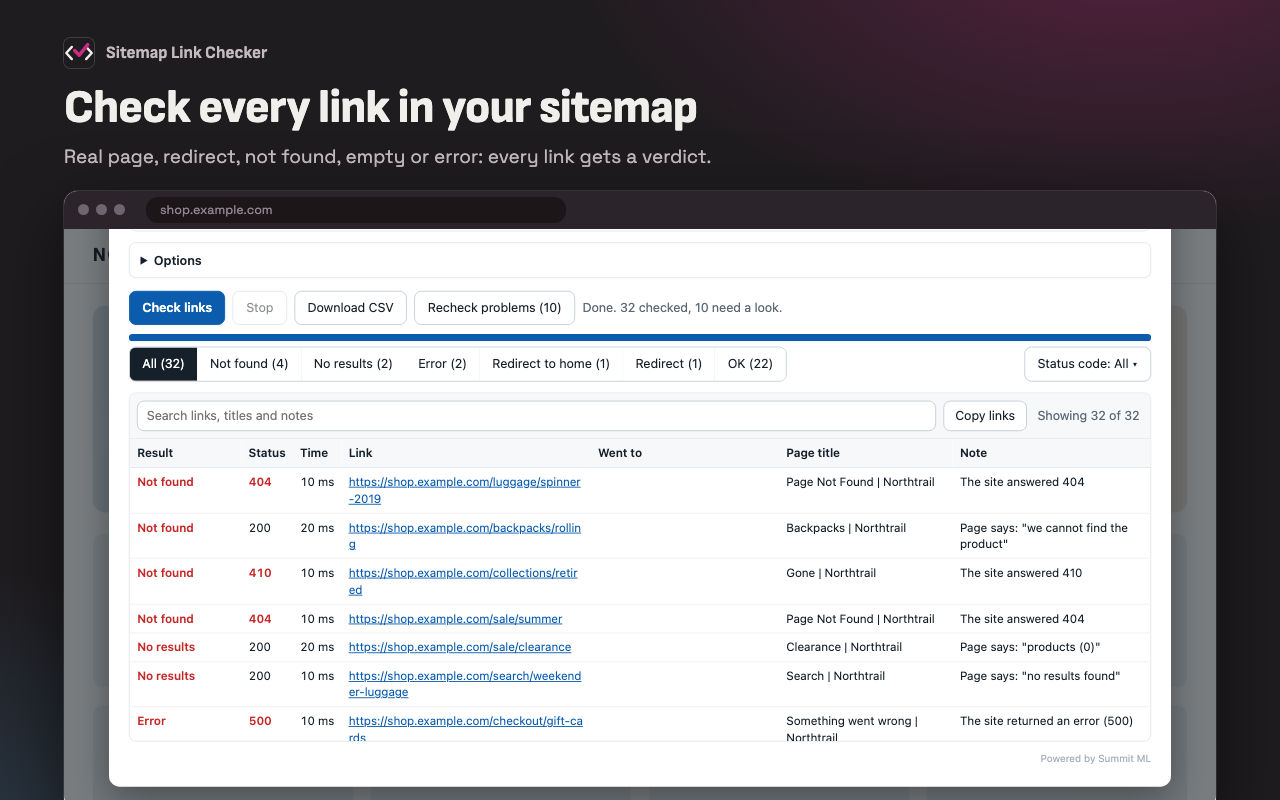
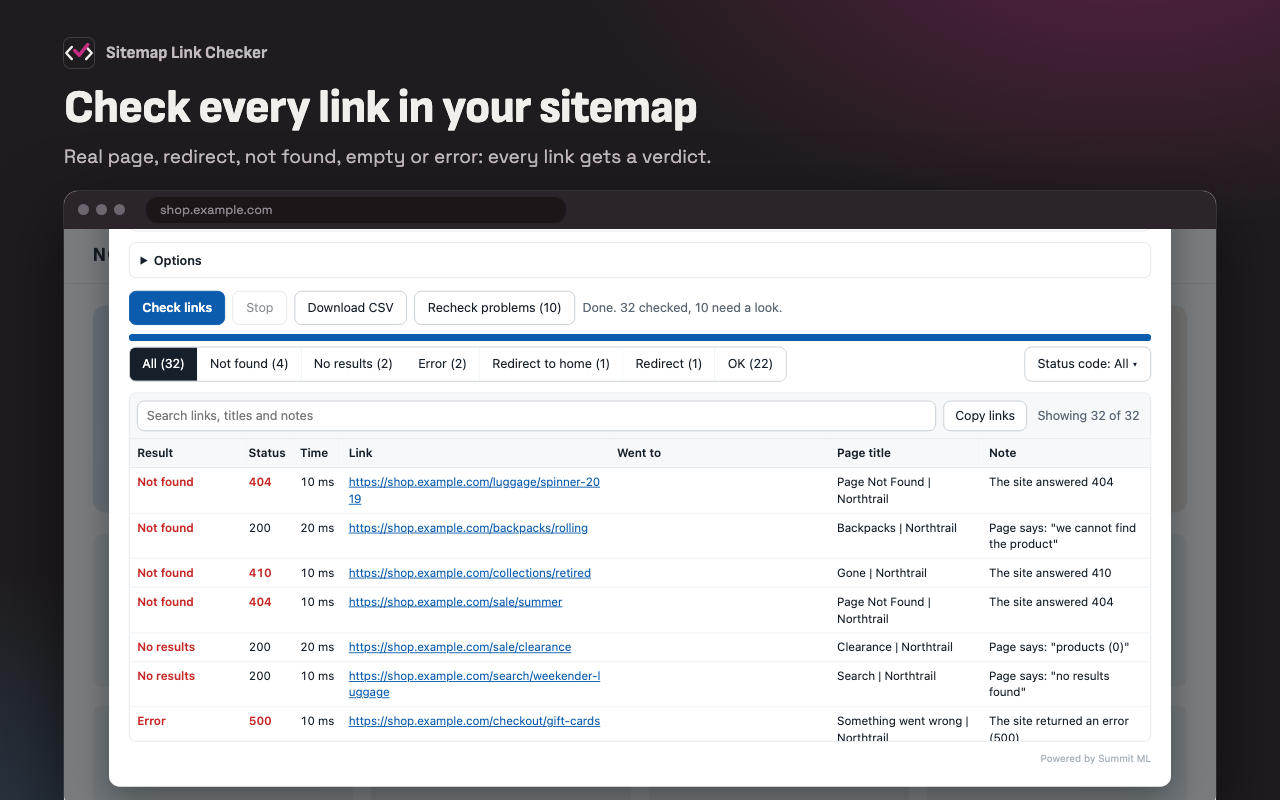
Treat a slow server as one finding, add a Fast pace and time left
- Slowness no longer changes a link's result; the Time column
  highlights only pages much slower than the rest of the run
- A note above the results says when the site as a whole is slow
- Fast pace (6 at a time), and a time-left estimate in the status line
- Link column keeps a minimum width

Store images re-rendered.

diff --git a/bookmarklet/index.html b/bookmarklet/index.html
@@ -98,7 +98,7 @@
   var PAUSE_AFTER = 3;
   // a page with less visible text than this is reported as nearly empty
   var THIN_TEXT = 150;
-  // a page that takes longer than this to arrive is reported as slow
+  // a page is marked slow when it takes at least this long and at least twice as long as the run's typical page
   var SLOW_MS = 3000;
   // wording in a page title or main heading that marks a not-found or error page on any kind of site
   var NOT_FOUND_TITLE = /\b404\b|not found|can(?:no|')t be found|could(?:n't| not) be found|does(?:n't| not) exist|no longer (?:available|exists)|page (?:is )?missing/;
@@ -240,7 +240,6 @@
    * @param {string} [info.canonical] - the canonical address the page names
    * @param {string} [info.robots] - robots instructions from the meta tags and the response header, lower case
    * @param {boolean} [info.isHtml] - false when the response is not a web page (a PDF, a download)
-   * @param {number} [info.ms] - how long the page took to arrive, in milliseconds
    * @param {?Object} [info.notFoundPage] - what the site's not-found page looks like, see sameAsNotFound
    * @returns {{result: string, note: string}} the outcome
    */
@@ -283,7 +282,6 @@
     }
     if (info.title !== undefined && !info.title && !info.heading) { warnings.push('No title and no main heading'); }
     if (text.trim().length < THIN_TEXT) { warnings.push('Almost no text on the page. If scripts draw the page, the checker cannot see it'); }
-    if (info.ms >= SLOW_MS) { warnings.push('Slow: took ' + duration(info.ms)); }
     if (warnings.length) { return { result: 'Warning', note: warnings.join('. ') + '.' }; }
     return { result: 'OK', note: '' };
   }
@@ -319,7 +317,6 @@
         canonical: row.canonical,
         robots: (isHtml ? robotsOf(html) : '') + ',' + (res.headers.get('x-robots-tag') || '').toLowerCase(),
         isHtml: isHtml,
-        ms: row.ms,
         notFoundPage: notFoundPage,
         phrases: phrases
       });
@@ -435,6 +432,37 @@
   function duration(ms) { return ms < 1000 ? Math.round(ms) + ' ms' : (ms / 1000).toFixed(1) + ' s'; }
 
   /**
+   * How long a page must take before it stands out as slow in this run.
+   * Judged against the run's own typical page, so a slow server does not mark every row.
+   * @param {number[]} times - response times of the run so far, in milliseconds
+   * @returns {number} the limit in milliseconds
+   */
+  function slowLimit(times) {
+    var sorted = (times || []).filter(function (t) { return typeof t === 'number'; }).sort(function (a, b) { return a - b; });
+    var median = sorted.length ? sorted[Math.floor(sorted.length / 2)] : 0;
+    return Math.max(SLOW_MS, median * 2);
+  }
+
+  /**
+   * Whether the site as a whole is answering slowly, as opposed to a few slow pages.
+   * @param {number[]} times - response times of the run so far, in milliseconds
+   * @returns {number} the typical (median) time in milliseconds when most pages are slow, otherwise 0
+   */
+  function slowSite(times) {
+    var sorted = (times || []).filter(function (t) { return typeof t === 'number'; }).sort(function (a, b) { return a - b; });
+    if (sorted.length < 10) { return 0; }
+    var slow = sorted.filter(function (t) { return t >= SLOW_MS; }).length;
+    return slow * 2 > sorted.length ? sorted[Math.floor(sorted.length / 2)] : 0;
+  }
+
+  /**
+   * The time a run still needs, for the progress message.
+   * @param {number} ms - milliseconds remaining
+   * @returns {string} for example "under a minute left" or "about 8 min left"
+   */
+  function timeLeft(ms) { return ms < 60000 ? 'under a minute left' : 'about ' + Math.round(ms / 60000) + ' min left'; }
+
+  /**
    * The sitemap addresses a robots.txt file declares.
    * @param {string} text - the contents of robots.txt
    * @returns {string[]} the addresses on its "Sitemap:" lines, in order
@@ -459,7 +487,7 @@
 
   // Node (tests): expose the pure helpers and stop before any DOM work.
   if (typeof module !== 'undefined' && module.exports) {
-    module.exports = { classify: classify, sitemapAddress: sitemapAddress, robotsSitemaps: robotsSitemaps, swapOrigin: swapOrigin, otherSites: otherSites, duration: duration, pickSitemap: pickSitemap, norm: norm, isHome: isHome, visibleText: visibleText, csvCell: csvCell, isLogin: isLogin, canonicalOf: canonicalOf, robotsOf: robotsOf, sameAsNotFound: sameAsNotFound, needsHuman: needsHuman, codeOf: codeOf, sortCodes: sortCodes, codePreview: codePreview, matches: matches, DEFAULT_PHRASES: DEFAULT_PHRASES };
+    module.exports = { classify: classify, sitemapAddress: sitemapAddress, robotsSitemaps: robotsSitemaps, swapOrigin: swapOrigin, otherSites: otherSites, duration: duration, slowLimit: slowLimit, slowSite: slowSite, timeLeft: timeLeft, pickSitemap: pickSitemap, norm: norm, isHome: isHome, visibleText: visibleText, csvCell: csvCell, isLogin: isLogin, canonicalOf: canonicalOf, robotsOf: robotsOf, sameAsNotFound: sameAsNotFound, needsHuman: needsHuman, codeOf: codeOf, sortCodes: sortCodes, codePreview: codePreview, matches: matches, DEFAULT_PHRASES: DEFAULT_PHRASES };
     return;
   }
 
@@ -479,6 +507,7 @@
     'label{display:block;font-weight:600;margin:12px 0 4px}',
     '.swap{display:flex;gap:8px;align-items:flex-start;font-weight:400;margin:8px 0 0;padding:9px 12px;border:1px solid #e8c88a;background:#fff8e8;border-radius:8px}',
     'td.slow{color:#b26a00;font-weight:600}',
+    '.info{margin:12px 0 14px;padding:10px 14px;border:1px solid #c9d6e6;background:#f2f6fb;border-radius:8px}',
     '.between{justify-content:space-between;margin-bottom:8px}.sec{font-weight:600}',
     '.help{margin:6px 0 0;color:#5b6875;font-size:13px}.help strong{color:#16202a}',
     '#panePaste textarea{min-height:104px}',
@@ -528,7 +557,7 @@
     'table{border-collapse:collapse;width:100%;font-size:13px}',
     'th,td{text-align:left;padding:6px 8px;border-bottom:1px solid #eef1f4;vertical-align:top}',
     'th{position:sticky;top:0;background:#f6f8fa;font-weight:600;border-bottom-color:#e1e5ea}',
-    'td.u{max-width:420px;word-break:break-all}',
+    'td.u{min-width:230px;max-width:420px;word-break:break-all}th{white-space:nowrap}',
     'a{color:#0b5cad}',
     '.OK{color:#1a7f37;font-weight:600}.Blocked,.Sign-in-needed,.Warning,.Redirect,.Redirect-to-home,.Skipped{color:#b26a00;font-weight:600}.Not-found,.No-results,.Error{color:#c62828;font-weight:600}',
     'details{margin-top:10px}summary{cursor:pointer;font-weight:600}',
@@ -543,8 +572,8 @@
     '<div id="panePaste" hidden><textarea id="paste" aria-label="Links to check, one per line" placeholder="https://…"></textarea><p class="help">One link per line. Only links on this site can be checked.</p></div>',
     '<label class="swap" id="swapRow" hidden><input type="checkbox" id="swap"><span id="swapText"></span></label>',
     '<details class="opts"><summary>Options</summary><div class="optbody">',
-    '<div><label for="pace">Pace</label><select id="pace"><option value="normal">Normal (3 at a time)</option><option value="gentle">Gentle (1 at a time)</option></select>',
-    '<p class="help">Gentle is slower but less likely to set off a bot check.</p>',
+    '<div><label for="pace">Pace</label><select id="pace"><option value="normal">Normal (3 at a time)</option><option value="gentle">Gentle (1 at a time)</option><option value="fast">Fast (6 at a time)</option></select>',
+    '<p class="help">Gentle is slower but less likely to set off a bot check. Fast suits a site that is slow to answer and has no bot check.</p>',
     '<p class="help"><strong>Sign-ins and bot checks.</strong> The checker uses this browser\'s session, so it sees what you see. Sign in, enter the site password, or complete the "press and hold" check in this browser first. It never asks for a password and never stores one. If the site starts blocking part-way through, the run pauses and shows how to carry on.</p></div>',
     '<div><label for="phrases">Messages that mark a broken page</label><textarea id="phrases"></textarea>',
     '<p class="help">One per line. A page whose text contains one of these is reported as Not found, as No results if the phrase contains "no results" or "(0)", or as Error if it contains the word "error".</p></div>',
@@ -552,6 +581,7 @@
     '<div class="row" style="margin-top:14px"><button class="primary" id="start">Check links</button><button id="stop" disabled>Stop</button><button id="csv" disabled>Download CSV</button><button id="again" disabled>Recheck problems</button><span class="muted" id="status" aria-live="polite"></span></div>',
     '<div class="bar"><i id="prog"></i></div>',
     '<div class="gate" id="gate" role="status" hidden></div>',
+    '<div class="info" id="slowNote" role="status" hidden></div>',
     '<div class="row" id="filters"></div>',
     '<div class="results">',
     '<div class="row" id="find" hidden><input class="grow" id="q" type="text" placeholder="Search links, titles and notes" aria-label="Search results"><button id="copy">Copy links</button><span class="muted" id="shown" aria-live="polite"></span></div>',
@@ -652,6 +682,16 @@
       empty.appendChild(cell); body.appendChild(empty);
       return;
     }
+    var times = rows.map(function (r) { return r.ms; }), slow = slowLimit(times), typical = slowSite(times);
+    // a slow server is one finding about the site, not hundreds of findings about its pages
+    $('slowNote').hidden = !typical;
+    if (typical) {
+      $('slowNote').innerHTML = '';
+      var lead = document.createElement('strong'); lead.textContent = 'This site is answering slowly. ';
+      $('slowNote').appendChild(lead);
+      $('slowNote').appendChild(document.createTextNode('Most pages took 3 seconds or more, and the typical page took ' + duration(typical) +
+        '. That points to the server or this environment, not to individual pages, and it does not change any result. Only pages much slower than the rest are highlighted in the Time column.'));
+    }
     list.forEach(function (r) {
       var tr = document.createElement('tr');
       function td(text, klass, link) {
@@ -661,7 +701,7 @@
       }
       td(r.result, 'r ' + cls(r.result));
       td(r.status || '', 's' + (isBad(r.status) ? ' bad' : ''));
-      td(r.ms === '' ? '' : duration(r.ms), 's' + (r.ms >= SLOW_MS ? ' slow' : ''));
+      td(r.ms === '' ? '' : duration(r.ms), 's' + (r.ms >= slow ? ' slow' : ''));
       td(r.url, 'u', r.url);
       var moved = r.finalUrl && norm(r.finalUrl) !== norm(r.url) ? r.finalUrl : '';
       td(moved, 'u', moved);
@@ -805,7 +845,8 @@
     running = true; stopRequested = false; paused = false;
     $('start').disabled = true; $('stop').disabled = false; $('csv').disabled = true; $('pace').disabled = true; $('again').disabled = true;
     renderGate();
-    var gentle = $('pace').value === 'gentle', streak = 0, inflight = 0;
+    var gentle = $('pace').value === 'gentle', streak = 0, inflight = 0, began = Date.now(), done = 0;
+    var atOnce = gentle ? 1 : ($('pace').value === 'fast' ? CONCURRENCY * 2 : CONCURRENCY);
     async function worker() {
       while (pending.length && !stopRequested && !paused) {
         var url = pending.shift(); inflight++;
@@ -816,12 +857,14 @@
         if (streak >= PAUSE_AFTER) { paused = true; }
         var total = rows.length + pending.length + inflight;
         $('prog').style.width = Math.round(rows.length / total * 100) + '%';
-        setStatus('Checked ' + rows.length + ' of ' + total);
+        done++;
+        var left = pending.length + inflight;
+        setStatus('Checked ' + rows.length + ' of ' + total + (done >= 6 && left ? ', ' + timeLeft((Date.now() - began) / done * left) : ''));
         if (rows.length % 5 === 0 || !pending.length) { renderFilters(); renderRows(); }
         if (gentle && pending.length && !stopRequested && !paused) { await sleep(GENTLE_DELAY); }
       }
     }
-    var workers = []; for (var i = 0; i < (gentle ? 1 : CONCURRENCY); i++) { workers.push(worker()); }
+    var workers = []; for (var i = 0; i < atOnce; i++) { workers.push(worker()); }
     await Promise.all(workers);
     var weight = { 'Blocked': -2, 'Sign-in needed': -1, 'Not found': 0, 'No results': 1, 'Error': 2, 'Warning': 2.5, 'Redirect to home': 3, 'Redirect': 4, 'Skipped': 5, 'OK': 6 };
     rows.sort(function (a, b) { return weight[a.result] - weight[b.result]; });

diff --git a/extension/checker.js b/extension/checker.js
@@ -26,7 +26,7 @@
   var PAUSE_AFTER = 3;
   // a page with less visible text than this is reported as nearly empty
   var THIN_TEXT = 150;
-  // a page that takes longer than this to arrive is reported as slow
+  // a page is marked slow when it takes at least this long and at least twice as long as the run's typical page
   var SLOW_MS = 3000;
   // wording in a page title or main heading that marks a not-found or error page on any kind of site
   var NOT_FOUND_TITLE = /\b404\b|not found|can(?:no|')t be found|could(?:n't| not) be found|does(?:n't| not) exist|no longer (?:available|exists)|page (?:is )?missing/;
@@ -168,7 +168,6 @@
    * @param {string} [info.canonical] - the canonical address the page names
    * @param {string} [info.robots] - robots instructions from the meta tags and the response header, lower case
    * @param {boolean} [info.isHtml] - false when the response is not a web page (a PDF, a download)
-   * @param {number} [info.ms] - how long the page took to arrive, in milliseconds
    * @param {?Object} [info.notFoundPage] - what the site's not-found page looks like, see sameAsNotFound
    * @returns {{result: string, note: string}} the outcome
    */
@@ -211,7 +210,6 @@
     }
     if (info.title !== undefined && !info.title && !info.heading) { warnings.push('No title and no main heading'); }
     if (text.trim().length < THIN_TEXT) { warnings.push('Almost no text on the page. If scripts draw the page, the checker cannot see it'); }
-    if (info.ms >= SLOW_MS) { warnings.push('Slow: took ' + duration(info.ms)); }
     if (warnings.length) { return { result: 'Warning', note: warnings.join('. ') + '.' }; }
     return { result: 'OK', note: '' };
   }
@@ -247,7 +245,6 @@
         canonical: row.canonical,
         robots: (isHtml ? robotsOf(html) : '') + ',' + (res.headers.get('x-robots-tag') || '').toLowerCase(),
         isHtml: isHtml,
-        ms: row.ms,
         notFoundPage: notFoundPage,
         phrases: phrases
       });
@@ -363,6 +360,37 @@
   function duration(ms) { return ms < 1000 ? Math.round(ms) + ' ms' : (ms / 1000).toFixed(1) + ' s'; }
 
   /**
+   * How long a page must take before it stands out as slow in this run.
+   * Judged against the run's own typical page, so a slow server does not mark every row.
+   * @param {number[]} times - response times of the run so far, in milliseconds
+   * @returns {number} the limit in milliseconds
+   */
+  function slowLimit(times) {
+    var sorted = (times || []).filter(function (t) { return typeof t === 'number'; }).sort(function (a, b) { return a - b; });
+    var median = sorted.length ? sorted[Math.floor(sorted.length / 2)] : 0;
+    return Math.max(SLOW_MS, median * 2);
+  }
+
+  /**
+   * Whether the site as a whole is answering slowly, as opposed to a few slow pages.
+   * @param {number[]} times - response times of the run so far, in milliseconds
+   * @returns {number} the typical (median) time in milliseconds when most pages are slow, otherwise 0
+   */
+  function slowSite(times) {
+    var sorted = (times || []).filter(function (t) { return typeof t === 'number'; }).sort(function (a, b) { return a - b; });
+    if (sorted.length < 10) { return 0; }
+    var slow = sorted.filter(function (t) { return t >= SLOW_MS; }).length;
+    return slow * 2 > sorted.length ? sorted[Math.floor(sorted.length / 2)] : 0;
+  }
+
+  /**
+   * The time a run still needs, for the progress message.
+   * @param {number} ms - milliseconds remaining
+   * @returns {string} for example "under a minute left" or "about 8 min left"
+   */
+  function timeLeft(ms) { return ms < 60000 ? 'under a minute left' : 'about ' + Math.round(ms / 60000) + ' min left'; }
+
+  /**
    * The sitemap addresses a robots.txt file declares.
    * @param {string} text - the contents of robots.txt
    * @returns {string[]} the addresses on its "Sitemap:" lines, in order
@@ -387,7 +415,7 @@
 
   // Node (tests): expose the pure helpers and stop before any DOM work.
   if (typeof module !== 'undefined' && module.exports) {
-    module.exports = { classify: classify, sitemapAddress: sitemapAddress, robotsSitemaps: robotsSitemaps, swapOrigin: swapOrigin, otherSites: otherSites, duration: duration, pickSitemap: pickSitemap, norm: norm, isHome: isHome, visibleText: visibleText, csvCell: csvCell, isLogin: isLogin, canonicalOf: canonicalOf, robotsOf: robotsOf, sameAsNotFound: sameAsNotFound, needsHuman: needsHuman, codeOf: codeOf, sortCodes: sortCodes, codePreview: codePreview, matches: matches, DEFAULT_PHRASES: DEFAULT_PHRASES };
+    module.exports = { classify: classify, sitemapAddress: sitemapAddress, robotsSitemaps: robotsSitemaps, swapOrigin: swapOrigin, otherSites: otherSites, duration: duration, slowLimit: slowLimit, slowSite: slowSite, timeLeft: timeLeft, pickSitemap: pickSitemap, norm: norm, isHome: isHome, visibleText: visibleText, csvCell: csvCell, isLogin: isLogin, canonicalOf: canonicalOf, robotsOf: robotsOf, sameAsNotFound: sameAsNotFound, needsHuman: needsHuman, codeOf: codeOf, sortCodes: sortCodes, codePreview: codePreview, matches: matches, DEFAULT_PHRASES: DEFAULT_PHRASES };
     return;
   }
 
@@ -407,6 +435,7 @@
     'label{display:block;font-weight:600;margin:12px 0 4px}',
     '.swap{display:flex;gap:8px;align-items:flex-start;font-weight:400;margin:8px 0 0;padding:9px 12px;border:1px solid #e8c88a;background:#fff8e8;border-radius:8px}',
     'td.slow{color:#b26a00;font-weight:600}',
+    '.info{margin:12px 0 14px;padding:10px 14px;border:1px solid #c9d6e6;background:#f2f6fb;border-radius:8px}',
     '.between{justify-content:space-between;margin-bottom:8px}.sec{font-weight:600}',
     '.help{margin:6px 0 0;color:#5b6875;font-size:13px}.help strong{color:#16202a}',
     '#panePaste textarea{min-height:104px}',
@@ -456,7 +485,7 @@
     'table{border-collapse:collapse;width:100%;font-size:13px}',
     'th,td{text-align:left;padding:6px 8px;border-bottom:1px solid #eef1f4;vertical-align:top}',
     'th{position:sticky;top:0;background:#f6f8fa;font-weight:600;border-bottom-color:#e1e5ea}',
-    'td.u{max-width:420px;word-break:break-all}',
+    'td.u{min-width:230px;max-width:420px;word-break:break-all}th{white-space:nowrap}',
     'a{color:#0b5cad}',
     '.OK{color:#1a7f37;font-weight:600}.Blocked,.Sign-in-needed,.Warning,.Redirect,.Redirect-to-home,.Skipped{color:#b26a00;font-weight:600}.Not-found,.No-results,.Error{color:#c62828;font-weight:600}',
     'details{margin-top:10px}summary{cursor:pointer;font-weight:600}',
@@ -471,8 +500,8 @@
     '<div id="panePaste" hidden><textarea id="paste" aria-label="Links to check, one per line" placeholder="https://…"></textarea><p class="help">One link per line. Only links on this site can be checked.</p></div>',
     '<label class="swap" id="swapRow" hidden><input type="checkbox" id="swap"><span id="swapText"></span></label>',
     '<details class="opts"><summary>Options</summary><div class="optbody">',
-    '<div><label for="pace">Pace</label><select id="pace"><option value="normal">Normal (3 at a time)</option><option value="gentle">Gentle (1 at a time)</option></select>',
-    '<p class="help">Gentle is slower but less likely to set off a bot check.</p>',
+    '<div><label for="pace">Pace</label><select id="pace"><option value="normal">Normal (3 at a time)</option><option value="gentle">Gentle (1 at a time)</option><option value="fast">Fast (6 at a time)</option></select>',
+    '<p class="help">Gentle is slower but less likely to set off a bot check. Fast suits a site that is slow to answer and has no bot check.</p>',
     '<p class="help"><strong>Sign-ins and bot checks.</strong> The checker uses this browser\'s session, so it sees what you see. Sign in, enter the site password, or complete the "press and hold" check in this browser first. It never asks for a password and never stores one. If the site starts blocking part-way through, the run pauses and shows how to carry on.</p></div>',
     '<div><label for="phrases">Messages that mark a broken page</label><textarea id="phrases"></textarea>',
     '<p class="help">One per line. A page whose text contains one of these is reported as Not found, as No results if the phrase contains "no results" or "(0)", or as Error if it contains the word "error".</p></div>',
@@ -480,6 +509,7 @@
     '<div class="row" style="margin-top:14px"><button class="primary" id="start">Check links</button><button id="stop" disabled>Stop</button><button id="csv" disabled>Download CSV</button><button id="again" disabled>Recheck problems</button><span class="muted" id="status" aria-live="polite"></span></div>',
     '<div class="bar"><i id="prog"></i></div>',
     '<div class="gate" id="gate" role="status" hidden></div>',
+    '<div class="info" id="slowNote" role="status" hidden></div>',
     '<div class="row" id="filters"></div>',
     '<div class="results">',
     '<div class="row" id="find" hidden><input class="grow" id="q" type="text" placeholder="Search links, titles and notes" aria-label="Search results"><button id="copy">Copy links</button><span class="muted" id="shown" aria-live="polite"></span></div>',
@@ -580,6 +610,16 @@
       empty.appendChild(cell); body.appendChild(empty);
       return;
     }
+    var times = rows.map(function (r) { return r.ms; }), slow = slowLimit(times), typical = slowSite(times);
+    // a slow server is one finding about the site, not hundreds of findings about its pages
+    $('slowNote').hidden = !typical;
+    if (typical) {
+      $('slowNote').innerHTML = '';
+      var lead = document.createElement('strong'); lead.textContent = 'This site is answering slowly. ';
+      $('slowNote').appendChild(lead);
+      $('slowNote').appendChild(document.createTextNode('Most pages took 3 seconds or more, and the typical page took ' + duration(typical) +
+        '. That points to the server or this environment, not to individual pages, and it does not change any result. Only pages much slower than the rest are highlighted in the Time column.'));
+    }
     list.forEach(function (r) {
       var tr = document.createElement('tr');
       function td(text, klass, link) {
@@ -589,7 +629,7 @@
       }
       td(r.result, 'r ' + cls(r.result));
       td(r.status || '', 's' + (isBad(r.status) ? ' bad' : ''));
-      td(r.ms === '' ? '' : duration(r.ms), 's' + (r.ms >= SLOW_MS ? ' slow' : ''));
+      td(r.ms === '' ? '' : duration(r.ms), 's' + (r.ms >= slow ? ' slow' : ''));
       td(r.url, 'u', r.url);
       var moved = r.finalUrl && norm(r.finalUrl) !== norm(r.url) ? r.finalUrl : '';
       td(moved, 'u', moved);
@@ -733,7 +773,8 @@
     running = true; stopRequested = false; paused = false;
     $('start').disabled = true; $('stop').disabled = false; $('csv').disabled = true; $('pace').disabled = true; $('again').disabled = true;
     renderGate();
-    var gentle = $('pace').value === 'gentle', streak = 0, inflight = 0;
+    var gentle = $('pace').value === 'gentle', streak = 0, inflight = 0, began = Date.now(), done = 0;
+    var atOnce = gentle ? 1 : ($('pace').value === 'fast' ? CONCURRENCY * 2 : CONCURRENCY);
     async function worker() {
       while (pending.length && !stopRequested && !paused) {
         var url = pending.shift(); inflight++;
@@ -744,12 +785,14 @@
         if (streak >= PAUSE_AFTER) { paused = true; }
         var total = rows.length + pending.length + inflight;
         $('prog').style.width = Math.round(rows.length / total * 100) + '%';
-        setStatus('Checked ' + rows.length + ' of ' + total);
+        done++;
+        var left = pending.length + inflight;
+        setStatus('Checked ' + rows.length + ' of ' + total + (done >= 6 && left ? ', ' + timeLeft((Date.now() - began) / done * left) : ''));
         if (rows.length % 5 === 0 || !pending.length) { renderFilters(); renderRows(); }
         if (gentle && pending.length && !stopRequested && !paused) { await sleep(GENTLE_DELAY); }
       }
     }
-    var workers = []; for (var i = 0; i < (gentle ? 1 : CONCURRENCY); i++) { workers.push(worker()); }
+    var workers = []; for (var i = 0; i < atOnce; i++) { workers.push(worker()); }
     await Promise.all(workers);
     var weight = { 'Blocked': -2, 'Sign-in needed': -1, 'Not found': 0, 'No results': 1, 'Error': 2, 'Warning': 2.5, 'Redirect to home': 3, 'Redirect': 4, 'Skipped': 5, 'OK': 6 };
     rows.sort(function (a, b) { return weight[a.result] - weight[b.result]; });

diff --git a/test/classify.test.js b/test/classify.test.js
@@ -2,7 +2,7 @@
 
 const test = require('node:test');
 const assert = require('node:assert');
-const { classify, sitemapAddress, robotsSitemaps, pickSitemap, swapOrigin, otherSites, duration, norm, isHome, visibleText, csvCell, isLogin, canonicalOf, robotsOf, sameAsNotFound, needsHuman, codeOf, sortCodes, codePreview, matches, DEFAULT_PHRASES } = require('../extension/checker.js');
+const { classify, sitemapAddress, robotsSitemaps, pickSitemap, swapOrigin, otherSites, duration, slowLimit, slowSite, timeLeft, norm, isHome, visibleText, csvCell, isLogin, canonicalOf, robotsOf, sameAsNotFound, needsHuman, codeOf, sortCodes, codePreview, matches, DEFAULT_PHRASES } = require('../extension/checker.js');
 
 const base = { requestedUrl: 'https://shop.example/luggage/', finalUrl: 'https://shop.example/luggage/', status: 200, redirected: false, title: 'Luggage', heading: 'Luggage', text: 'luggage 20 results ' + 'carry-on and checked bags for every trip. '.repeat(6), phrases: DEFAULT_PHRASES };
 const check = (overrides) => classify(Object.assign({}, base, overrides)).result;
@@ -242,10 +242,27 @@ test('otherSites counts links on other sites and names the main one', () => {
     assert.deepStrictEqual(otherSites(['https://dev.shop.example/d'], 'https://dev.shop.example'), { count: 0, host: '', hosts: 0 });
 });
 
-test('a slow page is a Warning, and duration reads naturally', () => {
-    assert.match(outcome({ ms: 3400 }).note, /Slow: took 3\.4 s/);
-    assert.strictEqual(check({ ms: 2999 }), 'OK');
-    assert.strictEqual(check({ ms: 9000, status: 404 }), 'Not found');
+test('slowLimit judges a page against the run, with a floor of 3 seconds', () => {
+    assert.strictEqual(slowLimit([200, 300, 400]), 3000);
+    assert.strictEqual(slowLimit([4000, 5000, 6000, '', 5500]), 11000);
+    assert.strictEqual(slowLimit([]), 3000);
+});
+
+test('a slow page is not a Warning by itself', () => {
+    assert.strictEqual(check({ ms: 9000 }), 'OK');
+});
+
+test('duration and timeLeft read naturally', () => {
     assert.strictEqual(duration(420), '420 ms');
     assert.strictEqual(duration(1250), '1.3 s');
+    assert.strictEqual(timeLeft(40000), 'under a minute left');
+    assert.strictEqual(timeLeft(8.4 * 60000), 'about 8 min left');
+});
+
+test('slowSite reports the typical time only when most of a run is slow', () => {
+    const slowRun = [2300, 2900, 3100, 3300, 3300, 3400, 4200, 6100, 6100, 6300, 7200];
+    assert.strictEqual(slowSite(slowRun), 3400);
+    assert.strictEqual(slowSite([200, 250, 300, 300, 320, 350, 400, 420, 9000, 9500]), 0);
+    assert.strictEqual(slowSite([5000, 6000, 7000]), 0);
+    assert.strictEqual(slowSite([]), 0);
 });

diff --git a/README.md b/README.md
@@ -102,8 +102,9 @@ A page that passes those can still get a **Warning**, with the reason in the Not
 - **Marked noindex**, in a robots meta tag or the `X-Robots-Tag` header. A page search engines are told to skip does not belong in a sitemap.
 - **Canonical points elsewhere.** The page names a different path as its canonical address, so the sitemap lists an address the site itself says is not the real one. A canonical on another host with the same path is not reported, since staging sites often point at production.
 - **No title and no main heading.**
-- **Slow.** The page took 3 seconds or more to arrive. Every row shows its response time in the **Time** column.
 - **Almost no text.** Fewer than 150 characters of visible text. On a site drawn by scripts this can mean the checker cannot see the page, not that the page is empty.
+
+Every row shows how long the page took in the **Time** column. A time is highlighted when the page took at least 3 seconds and at least twice as long as the typical page in that run, so a slow server does not light up every row. Slowness never changes a link's result. When most pages in a run take 3 seconds or more, a note above the results says the site as a whole is answering slowly, which points to the server or the environment, not to individual pages.
 
 Warnings are not given to redirects or to files that are not web pages, such as PDFs. The canonical address is included in the CSV.
 
@@ -122,7 +123,7 @@ If the checker misses a page on your site, copy the wording from that page into 
 - **One site at a time.** A browser only lets a page read responses from its own site. Run the checker on the site the sitemap belongs to. Links to other sites are listed as Skipped, unless you choose to check them on the current site.
 - **Redirect type is not reported.** The browser follows redirects itself, so the checker sees that a redirect happened and where it ended, not whether it was a 301 or a 302.
 - **Scripted pages.** The checker reads the HTML the server returns. Content that only appears after scripts run is not seen.
-- **Pace.** Three links are checked at a time, or one at a time with the Gentle pace.
+- **Pace.** Three links are checked at a time. Under **Options**, Gentle checks one at a time and Fast checks six. While a run is going, the status line estimates the time left.
 - **Bot checks are recognized by their wording and markup.** A check the tool does not know looks like an ordinary page. When that happens, the Page title column usually gives it away.
 
 ## Permissions
